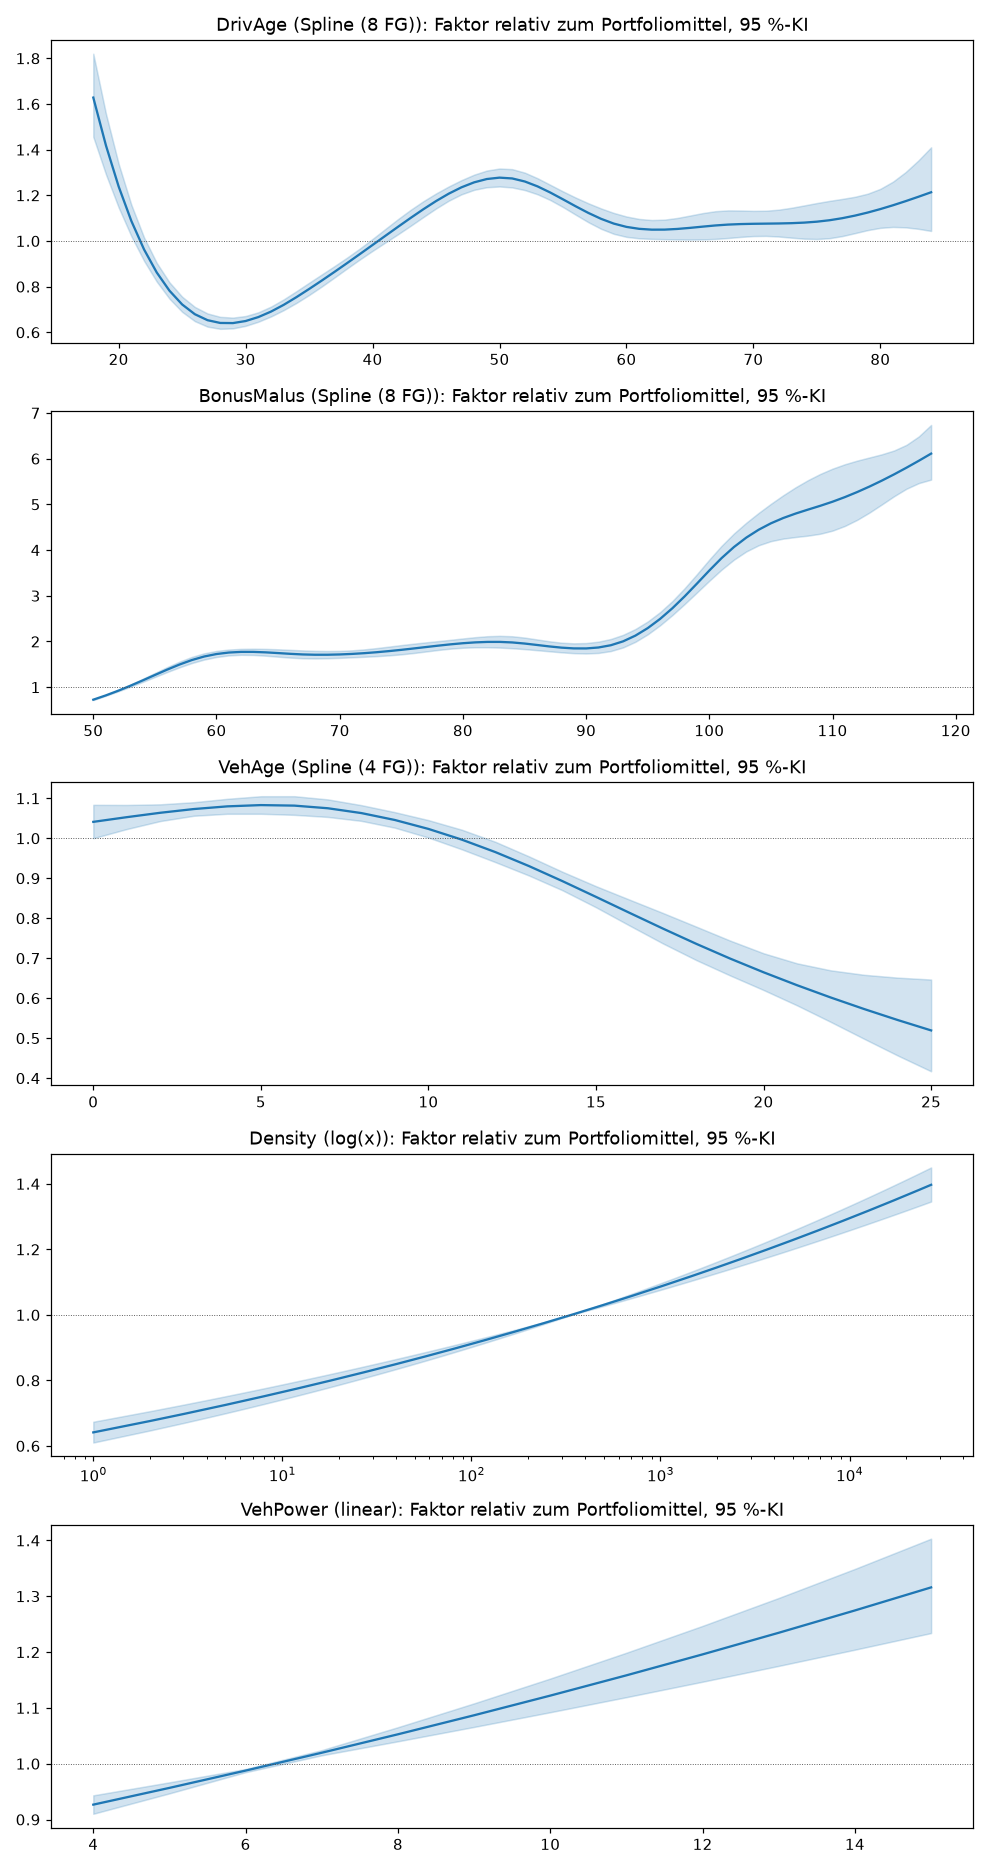
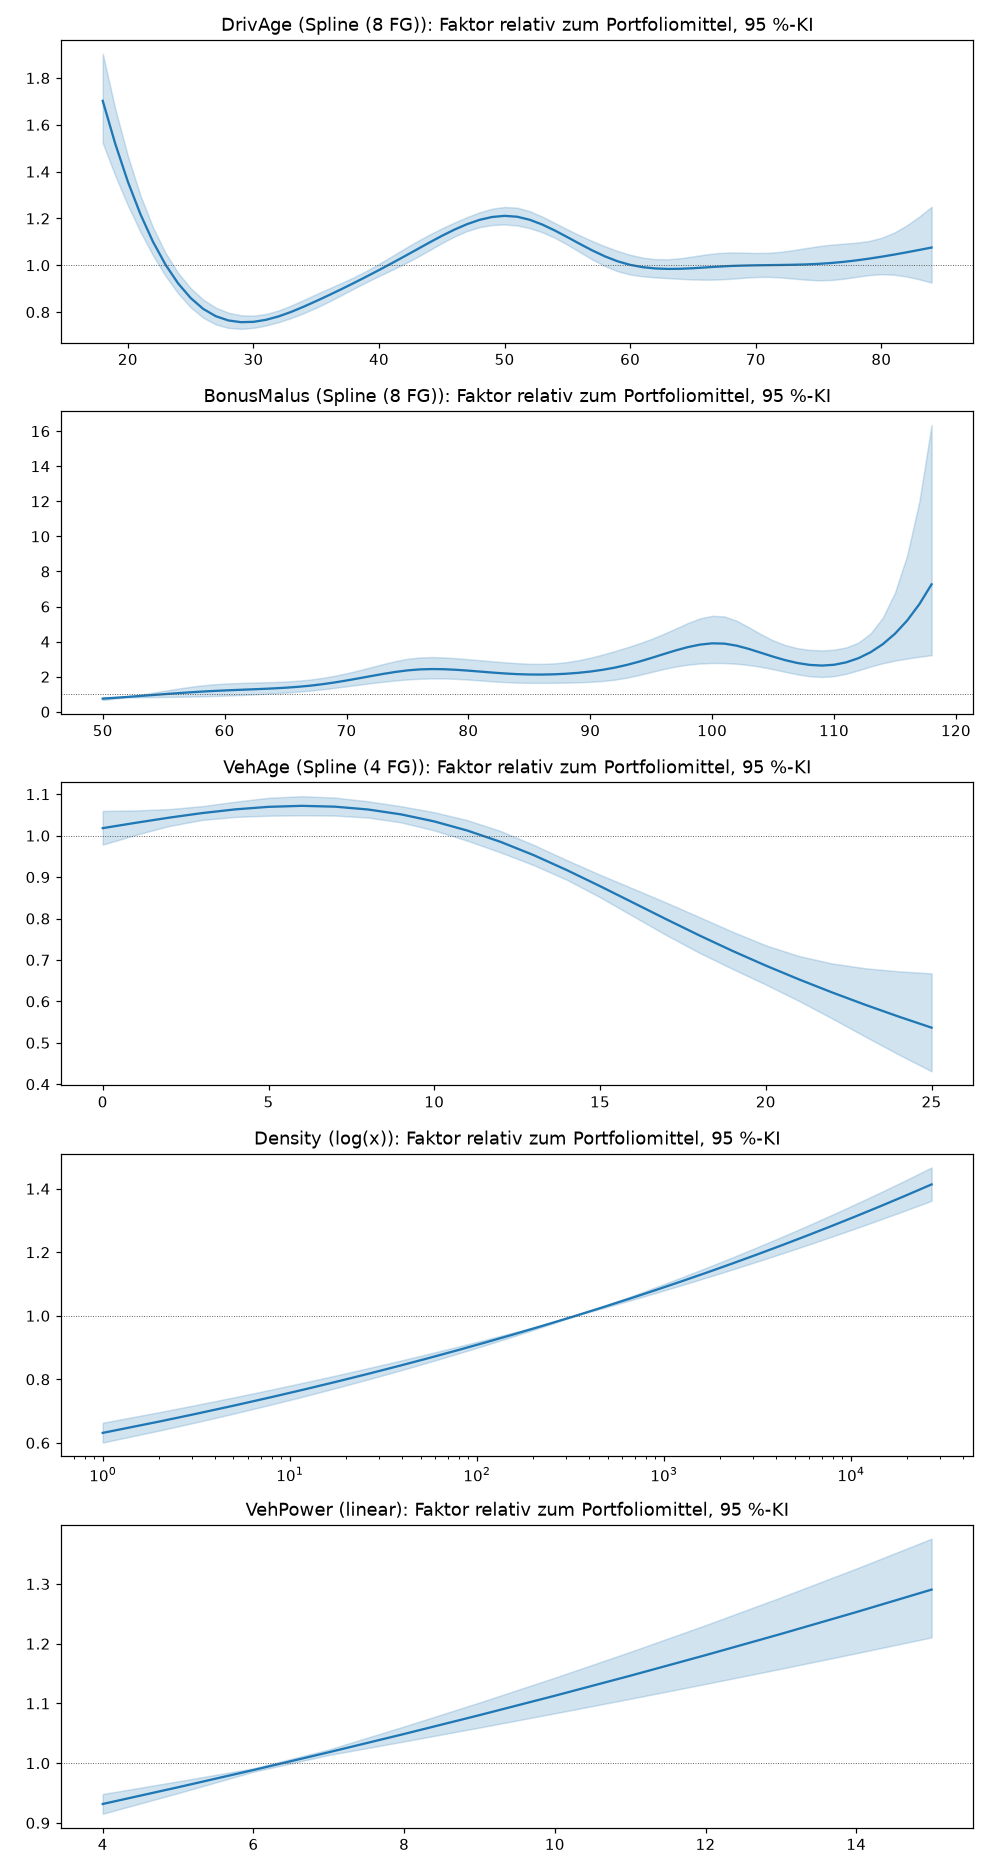
Teil 3: Ergebnisse Frequenzmodelle mit BonusMalus-Zusatzkodierung
Claude-Session: https://claude.ai/code/session_01ErNjPUzNnz4vpUw3wP4nTY

diff --git a/reports/teil3/frequenz.md b/reports/teil3/frequenz.md
@@ -44,6 +44,18 @@ Zuordnung der gewählten Gruppierung (Training):
 | Gruppe 7 | Corse, Franche-Comte, Nord-Pas-de-Calais, Poitou-Charentes |
 | Gruppe 8 | Limousin, Picardie, Rhone-Alpes |
 
+## F3.3b Auswahl Zusatzkodierung BonusMalus (volles GLM)
+
+Hintergrund: Häufige BonusMalus-Werte haben eine tiefere Frequenz als seltene Werte dazwischen (Teil 2, P2.2), was ein glatter Spline nicht abbilden kann.
+
+| Variante | Parameter | CV-Deviance | Abstand zur besten | ± SE Abstand | gewählt |
+|---|---|---|---|---|---|
+| nur Spline | 41 | 0.242290 | 0.002447 | 0.000193 |  |
+| + Indikator seltener Wert (< 1 % Exposure) | 42 | 0.241429 | 0.001586 | 0.000180 |  |
+| + häufige Werte (≥ 0.5 %) je Wert, Rest selten | 60 | 0.239859 | 0.000016 | 0.000035 | ✔ |
+| + häufige Werte (≥ 0.2 %) je Wert, Rest selten | 69 | 0.239843 | 0.000000 | 0.000000 |  |
+| + jeder Wert eigene Kategorie | 109 | 0.239992 | 0.000150 | 0.000056 |  |
+
 ## F3.4 Gradient Boosting: Tuning
 
 Lernrate 0.05, Poisson-Verlust, Iterationen per Kreuzvalidierung gewählt.
@@ -71,8 +83,8 @@ Deviance = mittlere Poisson-Deviance pro Police (kleiner ist besser). „nur vol
 | Modell | Deviance Test | Deviance Test, nur volle Jahre | beobachtet/vorhergesagt | beob./vorh., nur volle Jahre | Verbesserung ggü. Nullmodell |
 |---|---|---|---|---|---|
 | Portfoliofrequenz (Nullmodell) | 0.246761 | 0.333447 | 0.979 | 0.750 | 0.000000 |
-| GLM a (ohne Laufzeit) | 0.234052 | 0.305705 | 0.976 | 0.839 | 0.012709 |
-| GLM b (mit Laufzeitklassen) | 0.232698 | 0.305270 | 0.979 | 1.025 | 0.014063 |
+| GLM a (ohne Laufzeit) | 0.231464 | 0.297001 | 0.976 | 0.834 | 0.015297 |
+| GLM b (mit Laufzeitklassen) | 0.229985 | 0.296199 | 0.979 | 1.026 | 0.016776 |
 | GBM a (ohne Laufzeit) | 0.230897 | 0.297126 | 0.980 | 0.849 | 0.015864 |
 | GBM b (mit Exposure) | 0.227433 | 0.291856 | 0.982 | 1.019 | 0.019328 |
 
@@ -80,46 +92,66 @@ Deviance = mittlere Poisson-Deviance pro Police (kleiner ist besser). „nur vol
 
 | Exposure-Klasse | GLM a (ohne Laufzeit) | GLM b (mit Laufzeitklassen) | GBM a (ohne Laufzeit) | GBM b (mit Exposure) |
 |---|---|---|---|---|
-| (0.0, 0.05] | 2.688 | 0.689 | 2.670 | 0.720 |
-| (0.05, 0.1] | 1.280 | 0.756 | 1.314 | 0.784 |
-| (0.1, 0.25] | 1.466 | 1.027 | 1.469 | 1.019 |
-| (0.25, 0.5] | 1.098 | 0.967 | 1.100 | 0.977 |
-| (0.5, 0.75] | 0.973 | 0.947 | 0.972 | 0.954 |
-| (0.75, 0.99] | 0.959 | 0.992 | 0.952 | 0.997 |
-| (0.99, 1.0] | 0.836 | 1.024 | 0.846 | 1.015 |
+| (0.0, 0.05] | 2.712 | 0.690 | 2.670 | 0.720 |
+| (0.05, 0.1] | 1.314 | 0.759 | 1.314 | 0.784 |
+| (0.1, 0.25] | 1.481 | 1.031 | 1.469 | 1.019 |
+| (0.25, 0.5] | 1.102 | 0.963 | 1.100 | 0.977 |
+| (0.5, 0.75] | 0.975 | 0.944 | 0.972 | 0.954 |
+| (0.75, 0.99] | 0.961 | 0.992 | 0.952 | 0.997 |
+| (0.99, 1.0] | 0.831 | 1.025 | 0.846 | 1.015 |
 
 ## F3.7 GLM b: Faktoren der kategorialen Merkmale (exp(β), 95 %-KI)
 
 | Merkmal | Ausprägung | Faktor | KI unten | KI oben |
 |---|---|---|---|---|
 | VehBrand | B1 (Referenz) | 1.000 | nan | nan |
-| VehBrand | B2 | 0.998 | 0.960 | 1.038 |
-| VehBrand | B12 | 0.689 | 0.655 | 0.725 |
-| VehBrand | B3 | 1.041 | 0.986 | 1.098 |
-| VehBrand | B5 | 1.064 | 0.999 | 1.132 |
-| VehBrand | B6 | 1.009 | 0.941 | 1.082 |
-| VehBrand | B4 | 1.012 | 0.941 | 1.089 |
-| VehBrand | B10 | 0.964 | 0.880 | 1.055 |
-| VehBrand | B11 | 1.174 | 1.068 | 1.289 |
-| VehBrand | B13 | 1.015 | 0.917 | 1.124 |
-| VehBrand | B14 | 0.858 | 0.707 | 1.040 |
+| VehBrand | B2 | 0.995 | 0.958 | 1.035 |
+| VehBrand | B12 | 0.705 | 0.670 | 0.742 |
+| VehBrand | B3 | 1.034 | 0.979 | 1.091 |
+| VehBrand | B5 | 1.061 | 0.997 | 1.129 |
+| VehBrand | B6 | 1.001 | 0.934 | 1.073 |
+| VehBrand | B4 | 1.023 | 0.951 | 1.101 |
+| VehBrand | B10 | 0.973 | 0.889 | 1.064 |
+| VehBrand | B11 | 1.169 | 1.065 | 1.283 |
+| VehBrand | B13 | 0.997 | 0.900 | 1.104 |
+| VehBrand | B14 | 0.852 | 0.702 | 1.033 |
 | VehGas | Regular (Referenz) | 1.000 | nan | nan |
-| VehGas | Diesel | 1.136 | 1.104 | 1.170 |
+| VehGas | Diesel | 1.129 | 1.097 | 1.162 |
 | Region | Gruppe 4 (Referenz) | 1.000 | nan | nan |
-| Region | Gruppe 1 | 0.880 | 0.837 | 0.926 |
-| Region | Gruppe 6 | 1.009 | 0.963 | 1.058 |
-| Region | Gruppe 8 | 1.184 | 1.131 | 1.239 |
-| Region | Gruppe 2 | 1.011 | 0.954 | 1.072 |
-| Region | Gruppe 7 | 1.022 | 0.963 | 1.084 |
-| Region | Gruppe 3 | 0.977 | 0.915 | 1.042 |
-| Region | Gruppe 5 | 1.001 | 0.930 | 1.077 |
+| Region | Gruppe 1 | 0.883 | 0.839 | 0.928 |
+| Region | Gruppe 6 | 1.006 | 0.960 | 1.054 |
+| Region | Gruppe 8 | 1.183 | 1.130 | 1.238 |
+| Region | Gruppe 2 | 1.006 | 0.949 | 1.067 |
+| Region | Gruppe 7 | 1.017 | 0.958 | 1.079 |
+| Region | Gruppe 3 | 0.973 | 0.912 | 1.039 |
+| Region | Gruppe 5 | 0.988 | 0.918 | 1.063 |
+| BonusMalus | 50 (Referenz) | 1.000 | nan | nan |
+| BonusMalus | selten | 1.472 | 1.065 | 2.037 |
+| BonusMalus | 57 | 0.767 | 0.532 | 1.105 |
+| BonusMalus | 54 | 0.864 | 0.670 | 1.114 |
+| BonusMalus | 64 | 0.747 | 0.520 | 1.072 |
+| BonusMalus | 51 | 0.994 | 0.876 | 1.129 |
+| BonusMalus | 68 | 0.705 | 0.509 | 0.976 |
+| BonusMalus | 72 | 0.595 | 0.423 | 0.835 |
+| BonusMalus | 60 | 0.891 | 0.597 | 1.330 |
+| BonusMalus | 76 | 0.561 | 0.390 | 0.808 |
+| BonusMalus | 80 | 0.620 | 0.433 | 0.887 |
+| BonusMalus | 90 | 0.634 | 0.427 | 0.943 |
+| BonusMalus | 85 | 0.761 | 0.531 | 1.089 |
+| BonusMalus | 95 | 0.625 | 0.418 | 0.935 |
+| BonusMalus | 100 | 0.663 | 0.433 | 1.014 |
+| BonusMalus | 62 | 2.984 | 2.038 | 4.371 |
+| BonusMalus | 58 | 1.925 | 1.307 | 2.833 |
+| BonusMalus | 55 | 1.423 | 1.048 | 1.930 |
+| BonusMalus | 52 | 1.622 | 1.350 | 1.950 |
+| BonusMalus | 118 | 0.687 | 0.293 | 1.612 |
 | ExpKlasse | (0.99, 1.0] (Referenz) | 1.000 | nan | nan |
-| ExpKlasse | (0.5, 0.75] | 1.385 | 1.326 | 1.446 |
-| ExpKlasse | (0.75, 0.99] | 1.282 | 1.226 | 1.340 |
-| ExpKlasse | (0.25, 0.5] | 1.538 | 1.475 | 1.605 |
-| ExpKlasse | (0.1, 0.25] | 1.935 | 1.830 | 2.046 |
-| ExpKlasse | (0.05, 0.1] | 2.300 | 2.128 | 2.487 |
-| ExpKlasse | (0.0, 0.05] | 5.457 | 4.890 | 6.091 |
+| ExpKlasse | (0.5, 0.75] | 1.404 | 1.345 | 1.466 |
+| ExpKlasse | (0.75, 0.99] | 1.296 | 1.239 | 1.355 |
+| ExpKlasse | (0.25, 0.5] | 1.565 | 1.501 | 1.632 |
+| ExpKlasse | (0.1, 0.25] | 1.968 | 1.861 | 2.080 |
+| ExpKlasse | (0.05, 0.1] | 2.375 | 2.197 | 2.567 |
+| ExpKlasse | (0.0, 0.05] | 5.568 | 4.989 | 6.213 |
 
 ## F3.8 GLM b: Verläufe der stetigen Merkmale
 
@@ -130,25 +162,45 @@ Deviance = mittlere Poisson-Deviance pro Police (kleiner ist besser). „nur vol
 | Merkmal | Ausprägung | Faktor | KI unten | KI oben |
 |---|---|---|---|---|
 | VehBrand | B1 (Referenz) | 1.000 | nan | nan |
-| VehBrand | B2 | 0.995 | 0.957 | 1.034 |
-| VehBrand | B12 | 0.768 | 0.730 | 0.807 |
-| VehBrand | B3 | 1.048 | 0.993 | 1.106 |
-| VehBrand | B5 | 1.063 | 0.999 | 1.131 |
-| VehBrand | B6 | 1.020 | 0.951 | 1.094 |
-| VehBrand | B4 | 1.014 | 0.942 | 1.092 |
-| VehBrand | B10 | 0.983 | 0.898 | 1.076 |
-| VehBrand | B11 | 1.206 | 1.098 | 1.325 |
-| VehBrand | B13 | 1.029 | 0.929 | 1.140 |
-| VehBrand | B14 | 0.865 | 0.713 | 1.050 |
+| VehBrand | B2 | 0.992 | 0.955 | 1.031 |
+| VehBrand | B12 | 0.789 | 0.750 | 0.829 |
+| VehBrand | B3 | 1.043 | 0.988 | 1.100 |
+| VehBrand | B5 | 1.061 | 0.997 | 1.128 |
+| VehBrand | B6 | 1.012 | 0.944 | 1.085 |
+| VehBrand | B4 | 1.025 | 0.953 | 1.103 |
+| VehBrand | B10 | 0.994 | 0.908 | 1.087 |
+| VehBrand | B11 | 1.202 | 1.095 | 1.320 |
+| VehBrand | B13 | 1.013 | 0.915 | 1.122 |
+| VehBrand | B14 | 0.861 | 0.710 | 1.044 |
 | VehGas | Regular (Referenz) | 1.000 | nan | nan |
-| VehGas | Diesel | 1.161 | 1.127 | 1.195 |
+| VehGas | Diesel | 1.153 | 1.121 | 1.187 |
 | Region | Gruppe 4 (Referenz) | 1.000 | nan | nan |
-| Region | Gruppe 1 | 0.921 | 0.876 | 0.969 |
+| Region | Gruppe 1 | 0.926 | 0.880 | 0.974 |
 | Region | Gruppe 6 | 1.097 | 1.047 | 1.149 |
-| Region | Gruppe 8 | 1.214 | 1.159 | 1.270 |
-| Region | Gruppe 2 | 0.994 | 0.937 | 1.054 |
-| Region | Gruppe 7 | 1.073 | 1.011 | 1.138 |
-| Region | Gruppe 3 | 0.987 | 0.925 | 1.054 |
-| Region | Gruppe 5 | 1.066 | 0.990 | 1.147 |
+| Region | Gruppe 8 | 1.214 | 1.160 | 1.271 |
+| Region | Gruppe 2 | 0.989 | 0.933 | 1.049 |
+| Region | Gruppe 7 | 1.069 | 1.007 | 1.134 |
+| Region | Gruppe 3 | 0.985 | 0.923 | 1.050 |
+| Region | Gruppe 5 | 1.053 | 0.979 | 1.133 |
+| BonusMalus | 50 (Referenz) | 1.000 | nan | nan |
+| BonusMalus | selten | 1.535 | 1.109 | 2.126 |
+| BonusMalus | 57 | 0.803 | 0.557 | 1.159 |
+| BonusMalus | 54 | 0.900 | 0.697 | 1.161 |
+| BonusMalus | 64 | 0.792 | 0.550 | 1.138 |
+| BonusMalus | 51 | 1.021 | 0.900 | 1.159 |
+| BonusMalus | 68 | 0.751 | 0.542 | 1.041 |
+| BonusMalus | 72 | 0.633 | 0.450 | 0.891 |
+| BonusMalus | 60 | 0.947 | 0.633 | 1.415 |
+| BonusMalus | 76 | 0.599 | 0.415 | 0.864 |
+| BonusMalus | 80 | 0.665 | 0.464 | 0.953 |
+| BonusMalus | 90 | 0.659 | 0.442 | 0.981 |
+| BonusMalus | 85 | 0.809 | 0.564 | 1.160 |
+| BonusMalus | 95 | 0.684 | 0.456 | 1.026 |
+| BonusMalus | 100 | 0.796 | 0.519 | 1.220 |
+| BonusMalus | 62 | 3.111 | 2.121 | 4.564 |
+| BonusMalus | 58 | 1.978 | 1.341 | 2.917 |
+| BonusMalus | 55 | 1.449 | 1.066 | 1.968 |
+| BonusMalus | 52 | 1.638 | 1.362 | 1.970 |
+| BonusMalus | 118 | 0.763 | 0.324 | 1.797 |
 
 ![glm_a_stetig.png](glm_a_stetig.png)
